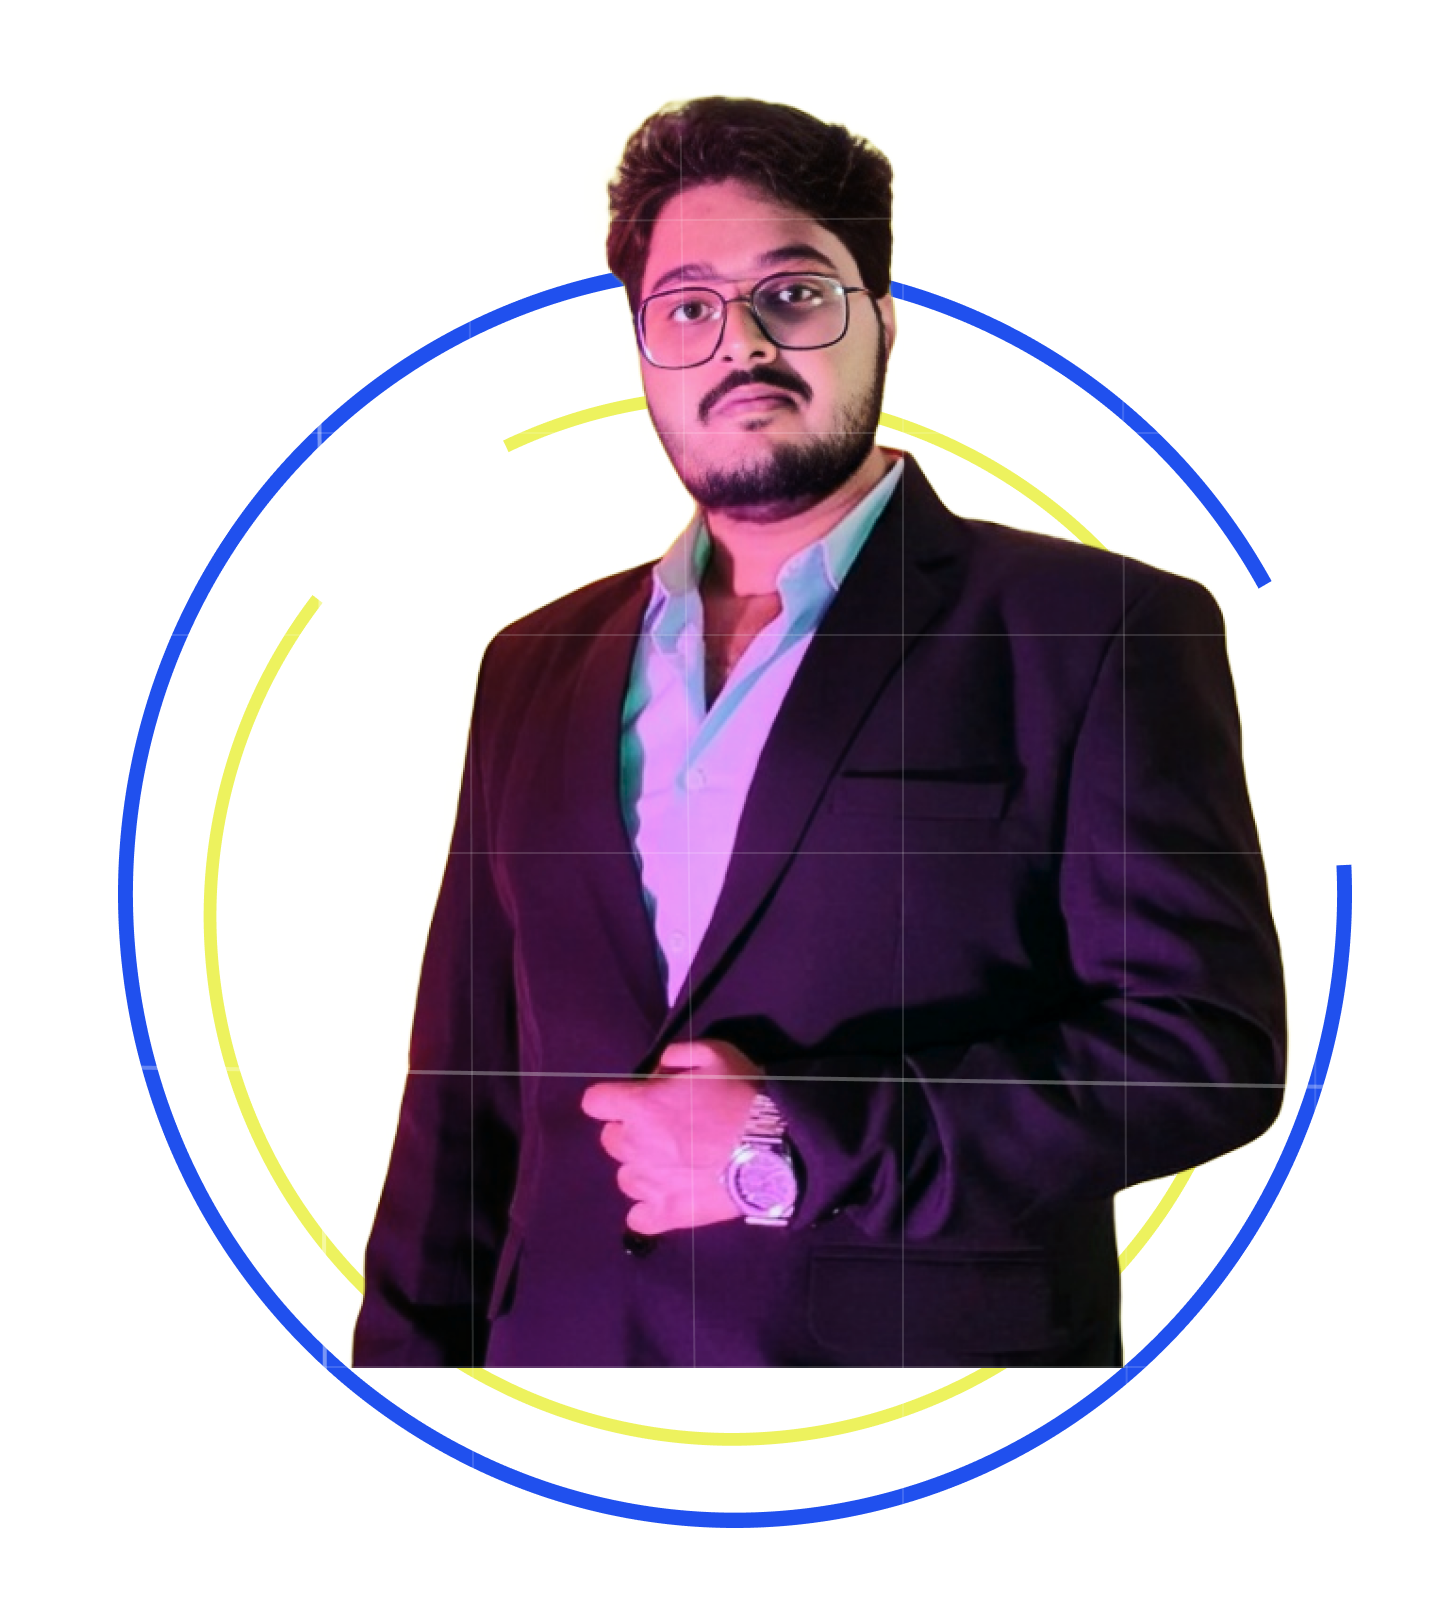
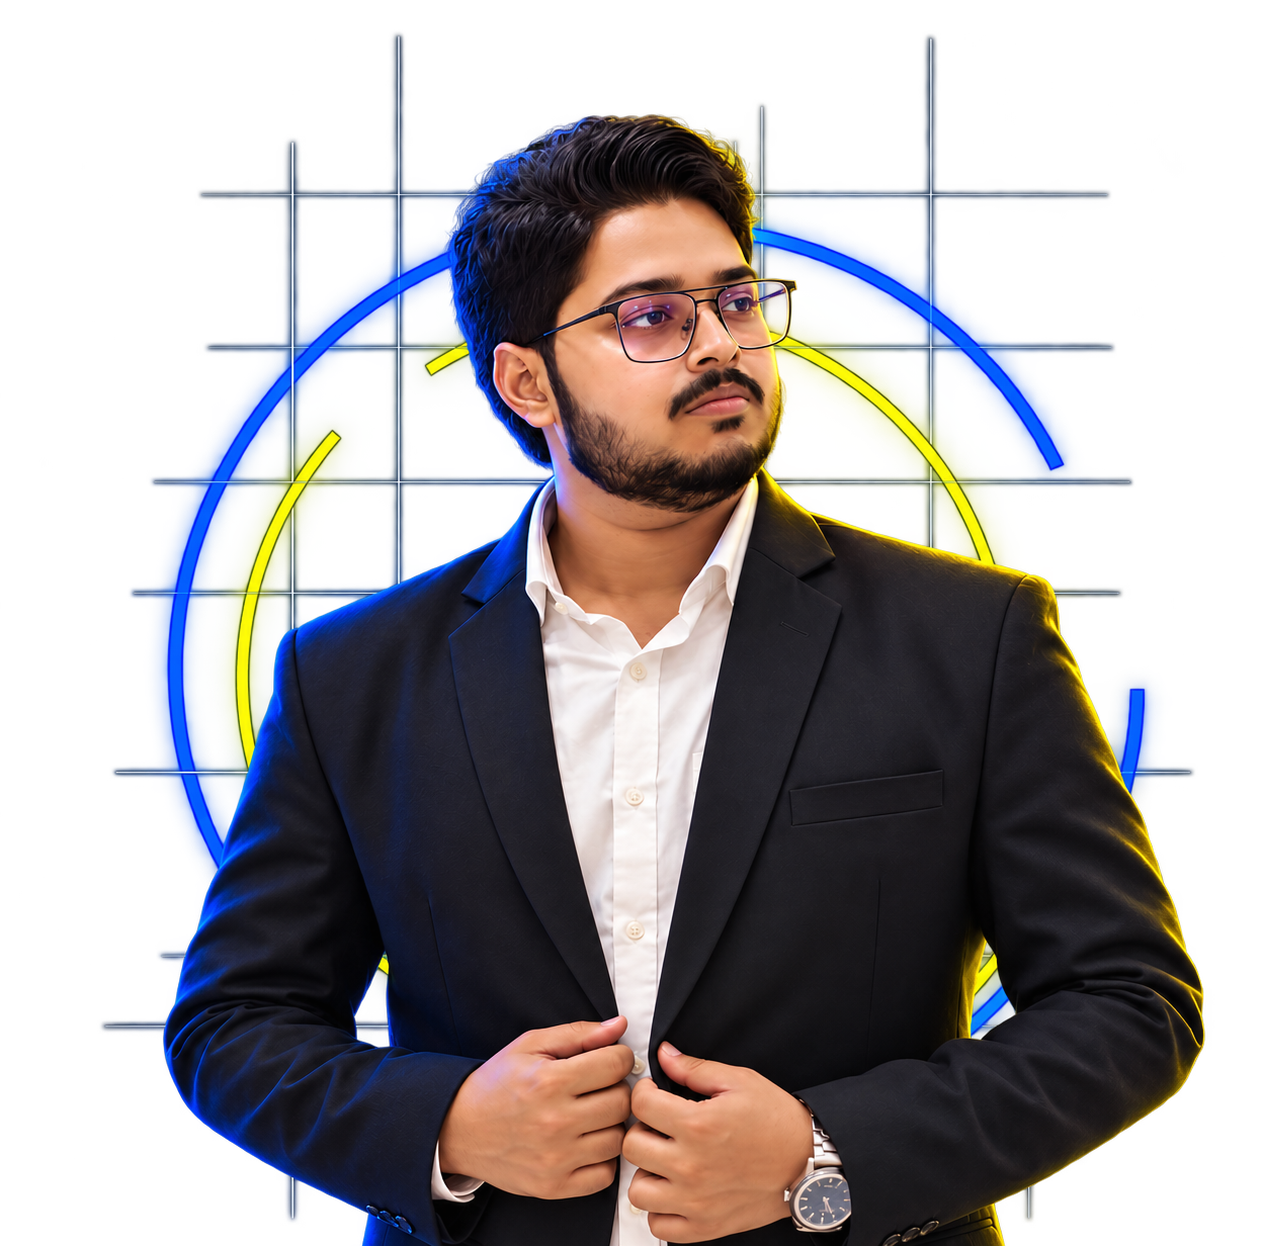
design and images update

diff --git a/app/components/IntroSection/IntroSection.js b/app/components/IntroSection/IntroSection.js
@@ -33,7 +33,7 @@ const IntroSection = () => {
             />
           </div>
         </div>
-        <div className="left-container   text-white mt-2 ml-2">
+        <div className="left-container   text-white mt-7 ml-2">
           <div className="intro-paragrap">
             <div className="intro-animation">
               <p className="text-sm font-semibold">
@@ -53,7 +53,7 @@ const IntroSection = () => {
             </div>
 
             <div className="intro-animation sub-intro w-[80%] ml-2 mt-2">
-              <p className="text-xs">
+              <p className="text-sm/6 tracking-wide text-white/80">
                 I am a passionate and versatile full stack developer with
                 expertise in both frontend and backend technologies. I
                 specialize in building efficient, scalable, and user-friendly
@@ -64,9 +64,12 @@ const IntroSection = () => {
             </div>
           </div>
 
-          <div className="social-links flex gap-10 mt-2">
+          <div className="social-links flex gap-10 mt-5">
             <div className="linkedin">
-            <Link href={"https://www.linkedin.com/in/abhijit-das-1a41a2234"} target="_blank">
+              <Link
+                href={"https://www.linkedin.com/in/abhijit-das-1a41a2234"}
+                target="_blank"
+              >
                 <Image
                   src="/Social Links/linkedin.png"
                   alt="loading.."
@@ -77,7 +80,7 @@ const IntroSection = () => {
               </Link>
             </div>
             <div className="github">
-            <Link href="https://github.com/abhijit84842" target="_blank">
+              <Link href="https://github.com/abhijit84842" target="_blank">
                 <Image
                   src="/Social Links/github.png"
                   alt="loading.."
@@ -88,7 +91,11 @@ const IntroSection = () => {
               </Link>
             </div>
             <div className="whatsapp">
-            <Link href="https://wa.me/+919002527215" target="_blank" rel="noopener noreferrer">
+              <Link
+                href="https://wa.me/+919002527215"
+                target="_blank"
+                rel="noopener noreferrer"
+              >
                 <Image
                   src="/Social Links/whatsapp.png"
                   alt="loading.."
@@ -113,7 +120,7 @@ const IntroSection = () => {
         </div>
       </div>
 
-{/*Responsive for lg breakpoint */}
+      {/*Responsive for lg breakpoint */}
       <div className="hidden lg:block">
         <div className="intro-container  flex justify-between">
           <div className="lg:left-container w-[50%] text-white mt-20 ml-5 2xl:ml-20">
@@ -136,7 +143,7 @@ const IntroSection = () => {
               </div>
 
               <div className="intro-animation sub-intro w-[100%] ml-5 mt-2">
-                <p>
+                <p className="text-lg/7 tracking-wide text-white/80">
                   I am a passionate and versatile full stack developer with
                   expertise in both frontend and backend technologies. I
                   specialize in building efficient, scalable, and user-friendly
@@ -149,7 +156,10 @@ const IntroSection = () => {
 
             <div className="social-links flex gap-10 mt-5">
               <div className="github">
-                <Link href={"https://www.linkedin.com/in/abhijit-das-1a41a2234"} target="_blank">
+                <Link
+                  href={"https://www.linkedin.com/in/abhijit-das-1a41a2234"}
+                  target="_blank"
+                >
                   <Image
                     src="/Social Links/linkedin.png"
                     alt="loading.."
@@ -171,7 +181,11 @@ const IntroSection = () => {
                 </Link>
               </div>
               <div className="whatsapp">
-                <Link href="https://wa.me/+919002527215" target="_blank" rel="noopener noreferrer">
+                <Link
+                  href="https://wa.me/+919002527215"
+                  target="_blank"
+                  rel="noopener noreferrer"
+                >
                   <Image
                     src="/Social Links/whatsapp.png"
                     alt="loading.."

diff --git a/app/components/Contact/ContactMe.js b/app/components/Contact/ContactMe.js
@@ -20,7 +20,7 @@ const ContactMe = () => {
     formState: { errors },
   } = useForm();
   const onSubmit = async (data) => {
-    console.log(data)
+    console.log(data);
     const serviceID = "service_6pyy1rx";
     const templateID = "template_v48o69h";
     const publicKey = "7-6v9d4lFnkvMmJi2";
@@ -43,7 +43,7 @@ const ContactMe = () => {
         reset(); // Reset the form after submission
       }
     } catch (error) {
-      toast.error('Soory! Message not sent..', {
+      toast.error("Soory! Message not sent..", {
         position: "top-center",
         autoClose: 3000,
         hideProgressBar: false,
@@ -53,7 +53,7 @@ const ContactMe = () => {
         progress: undefined,
         theme: "dark",
         // transition: Bounce,
-        });
+      });
     }
   };
 
@@ -100,31 +100,38 @@ const ContactMe = () => {
       </h1>
 
       <div className="contact-sub-container bg-[#18181B] rounded-[2rem]  my-10 mx-2  lg:mx-2  lg:flex lg:justify-between lg:gap-10 lg:p-2 2xl:flex 2xl:justify-between 2xl:gap-20 2xl:p-5  2xl:mx-10">
-        <div className="contact-left  flex justify-center p-2 lg:hidden 2xl:hidden">
+        <div className="contact-left   p-2 lg:hidden 2xl:hidden">
+          <div className="w-full h-full ">
+            <Image
+              src="/Contact/Contact.png"
+              alt="loading.."
+              loading="lazy"
+              width={500}
+              height={500}
+              className="object-contain"
+            />
+          </div>
+        </div>
+        <div className="contact-left hidden w-full lg:flex lg:justify-center lg:p-2 2xl:hidden">
           <Image
             src="/Contact/Contact.png"
             alt="loading.."
             loading="lazy"
-            width={300}
-            height={200}
+            width={1000}
+            height={1000}
+            quality={100}
+            className="object-contain"
           />
         </div>
-        <div className="contact-left hidden lg:flex lg:justify-center lg:p-2 2xl:hidden">
+        <div className="contact-left w-full  hidden  p-5 lg:hidden 2xl:flex 2xl:justify-center">
           <Image
             src="/Contact/Contact.png"
             alt="loading.."
             loading="lazy"
-            width={400}
-            height={100}
-          />
-        </div>
-        <div className="contact-left w-[50%] hidden  p-5 lg:hidden 2xl:flex 2xl:justify-center">
-          <Image
-            src="/Contact/Contact.png"
-            alt="loading.."
-            loading="lazy"
-            width={500}
-            height={400}
+            width={1000}
+            height={1000}
+            quality={100}
+            className="object-contain"
           />
         </div>
         <div className="contact-right p-5 mt-5 lg:w-[50%] lg:p-5 2xl:w-[40%] 2xl:p-10 ">
@@ -145,15 +152,15 @@ const ContactMe = () => {
               className="h-[3rem] rounded-md p-2 outline-none text-black"
               type="number"
               {...register("from_phno", {
-                minLength:{
-                  value:10,
-                  message:"minimum 10 digits required.."
+                minLength: {
+                  value: 10,
+                  message: "minimum 10 digits required..",
                 },
-                maxLength:{
-                  value:10,
-                  message:"maximum 10 digits alllowed.."
+                maxLength: {
+                  value: 10,
+                  message: "maximum 10 digits alllowed..",
                 },
-              
+
                 required: "phno is required..",
               })}
               placeholder="Ph no.."

diff --git a/app/components/AboutSection/AboutMe.js b/app/components/AboutSection/AboutMe.js
@@ -109,20 +109,20 @@ const AboutMe = () => {
         <div className="top-heading-about-me  flex justify-center">
           <p className="text-[#F61E1E] text-3xl font-semibold">About Me</p>
         </div>
-        <div className="flex justify-center">
+        <div className="flex justify-center w-full h-full">
           <Image
             src="/aboutprofilepic.png"
             alt="loading.."
             loading="lazy"
-            width={250}
-            height={250}
-            className="about-image"
+            width={300}
+            height={400}
+            className="about-image object-contain"
           />
         </div>
 
         <div className=" about-right  w-[90%]  mt-2">
           <div className="paragrap text-zinc-200 w-[100%] ">
-            <p className=" text-base  p-2 leading-6 tracking-wider ml-2">
+            <p className=" text-base/7  p-2  tracking-wide ml-2">
               I am a dedicated full stack developer with a strong passion for
               crafting dynamic and responsive web applications. With hands-on
               experience in front-end technologies like HTML, CSS, JavaScript,
@@ -157,7 +157,7 @@ const AboutMe = () => {
             loading="lazy"
             width={350}
             height={350}
-            className="about-image mt-20 2xl:hidden "
+            className="w-full h-full about-image mt-20 2xl:hidden "
           />
 
           <Image
@@ -175,7 +175,7 @@ const AboutMe = () => {
             <p className="text-[#F61E1E] text-4xl font-semibold">About Me</p>
           </div>
           <div className="paragrap text-white w-[100%] mt-10 ml-5 ">
-            <p className=" text-xl leading-8">
+            <p className=" text-xl/8 tracking-wide text-white/80">
               I am a dedicated full stack developer with a strong passion for
               crafting dynamic and responsive web applications. With hands-on
               experience in front-end technologies like HTML, CSS, JavaScript,

diff --git a/app/components/ProjectSection/MyProject.js b/app/components/ProjectSection/MyProject.js
@@ -118,7 +118,7 @@ const MyProject = () => {
             </Link>
           </div>
 
-          <div className="blank-div border border-red-500 mx-20 my-5  2xl:my-10"></div>
+          <div className="blank-div border border-red-500 mx-5 lg:mx-20 2xl:mx-20 my-5  2xl:my-10"></div>
         </div>
 
         <MyFlagshipProject />

diff --git a/app/components/ProjectSection/MernStackProject.js b/app/components/ProjectSection/MernStackProject.js
@@ -3,7 +3,6 @@ import ImageMagnifier from "@/app/util/ImageMagnifier";
 import { useGSAP } from "@gsap/react";
 import gsap from "gsap";
 import { ScrollTrigger } from "gsap/ScrollTrigger";
-import Image from "next/image";
 import Link from "next/link";
 import React from "react";
 import { FaLink } from "react-icons/fa";

diff --git a/app/components/ProjectSection/MyFlagshipProject.js b/app/components/ProjectSection/MyFlagshipProject.js
@@ -1,4 +1,4 @@
-import ImageMagnifier from "@/app/util/ImageMagnifier";
+"use client"
 import Image from "next/image";
 import Link from "next/link";
 import React, { useEffect, useState } from "react";
